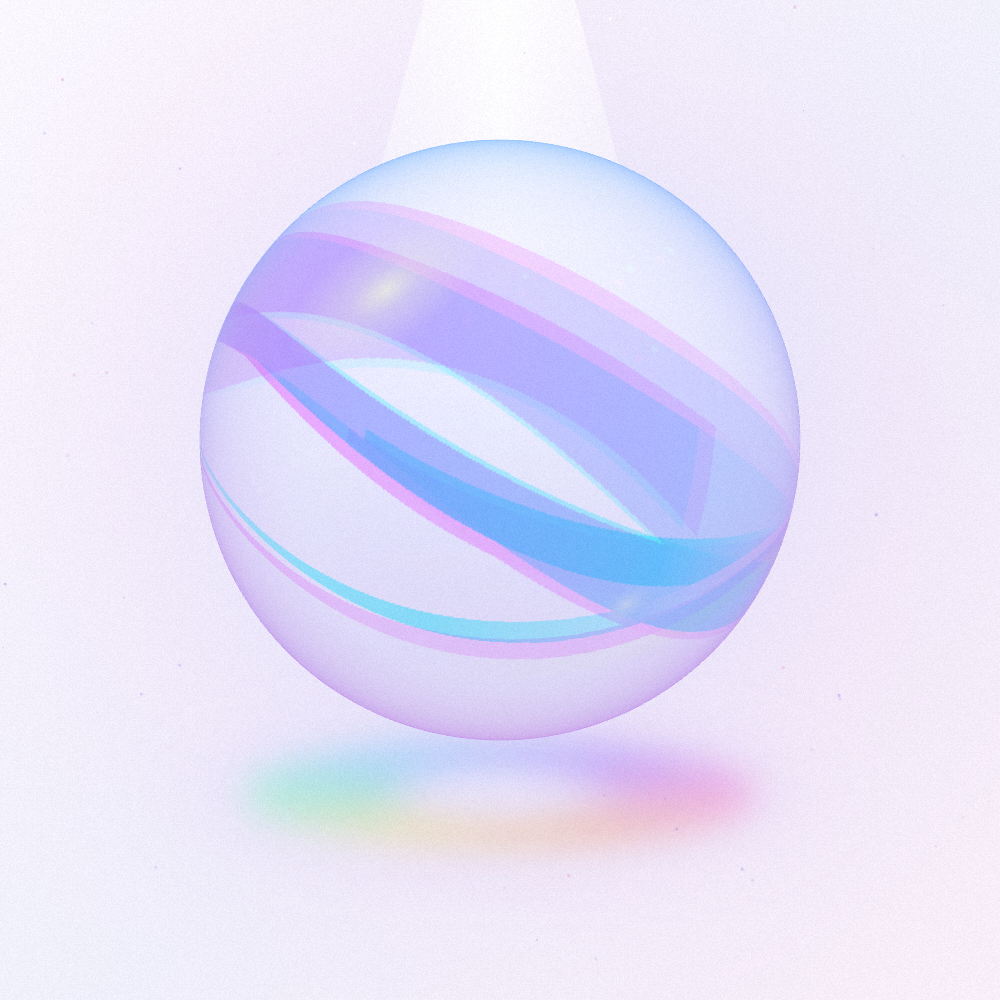
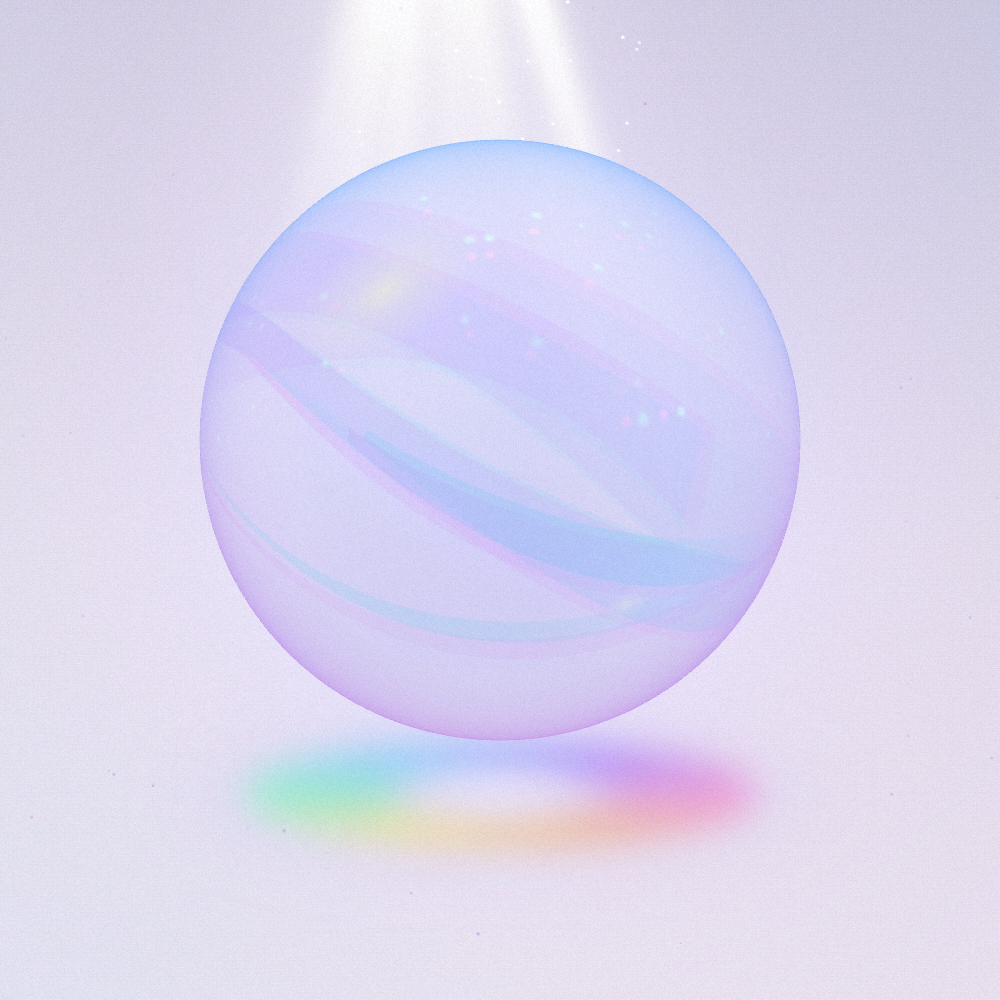
Orb: fainter interior ribbon, volumetric light rays, stronger rainbow pool
Claude-Session: https://claude.ai/code/session_01NNfMayHtDVknSJbkkHba8P

diff --git a/rebrand/orb3d.html b/rebrand/orb3d.html
@@ -15,12 +15,21 @@ function bg(w,h,X,Y,r){const c=document.createElement('canvas');c.width=w;c.heig
  let g=x.createLinearGradient(0,0,w,h);g.addColorStop(0,'#fbfaff');g.addColorStop(.55,'#eef0fb');g.addColorStop(1,'#f7eef8');x.fillStyle=g;x.fillRect(0,0,w,h);
  g=x.createRadialGradient(X,Y,0,X,Y,r*3);g.addColorStop(0,'rgba(190,195,255,.5)');g.addColorStop(.45,'rgba(240,210,245,.25)');g.addColorStop(1,'rgba(255,255,255,0)');x.fillStyle=g;x.fillRect(0,0,w,h);
  // beam
- {const b=document.createElement('canvas');b.width=w;b.height=h;const bx=b.getContext('2d');bx.translate(X,0);let bg2=bx.createLinearGradient(-r*.7,0,r*.7,0);bg2.addColorStop(0,'rgba(255,255,255,0)');bg2.addColorStop(.5,'rgba(255,255,255,.9)');bg2.addColorStop(1,'rgba(255,255,255,0)');bx.fillStyle=bg2;bx.beginPath();bx.moveTo(-r*.25,0);bx.lineTo(r*.25,0);bx.lineTo(r*.8,Y+r*.6);bx.lineTo(-r*.8,Y+r*.6);bx.fill();
- bx.setTransform(1,0,0,1,0,0);bx.globalCompositeOperation='destination-in';const vg=bx.createLinearGradient(0,0,0,Y+r*.6);vg.addColorStop(0,'#000');vg.addColorStop(.5,'rgba(0,0,0,.8)');vg.addColorStop(1,'rgba(0,0,0,0)');bx.fillStyle=vg;bx.fillRect(0,0,w,h);x.drawImage(b,0,0)}
+ {let vg2=x.createLinearGradient(0,0,0,h);vg2.addColorStop(0,'rgba(120,110,175,.22)');vg2.addColorStop(.55,'rgba(120,110,175,.06)');vg2.addColorStop(1,'rgba(120,110,175,0)');x.fillStyle=vg2;x.fillRect(0,0,w,h);
+  let vg3=x.createRadialGradient(X,Y,r,X,Y,Math.max(w,h)*.8);vg3.addColorStop(0,'rgba(0,0,0,0)');vg3.addColorStop(1,'rgba(110,100,170,.12)');x.fillStyle=vg3;x.fillRect(0,0,w,h);}
+ {const b=document.createElement('canvas');b.width=w;b.height=h;const bx=b.getContext('2d');
+  // soft volumetric light: wide haze + many faint god-rays from a source above frame
+  const sx=X-r*.25,sy=-r*1.2;bx.globalCompositeOperation='lighter';
+  bx.filter=`blur(${r*.25}px)`;let hg=bx.createRadialGradient(sx,sy,0,sx,sy,Y+r*1.5);hg.addColorStop(0,'rgba(255,253,250,.95)');hg.addColorStop(1,'rgba(255,255,255,0)');
+  bx.fillStyle=hg;bx.beginPath();bx.moveTo(sx,sy);bx.lineTo(X-r*1.3,Y+r);bx.lineTo(X+r*1.1,Y+r);bx.fill();
+  bx.filter=`blur(${r*.04}px)`;for(let i=0;i<46;i++){const tx=X+R(-r*1.1,r*1.0),ww=R(r*.02,r*.12);const g2=bx.createLinearGradient(sx,sy,tx,Y+r);g2.addColorStop(0,`rgba(255,253,250,${R(.12,.35)})`);g2.addColorStop(1,'rgba(255,255,255,0)');
+   bx.fillStyle=g2;bx.beginPath();bx.moveTo(sx-ww*.1,sy);bx.lineTo(sx+ww*.1,sy);bx.lineTo(tx+ww,Y+r);bx.lineTo(tx-ww,Y+r);bx.fill()}
+  bx.filter='none';bx.globalCompositeOperation='destination-in';const vg=bx.createLinearGradient(0,0,0,Y+r);vg.addColorStop(0,'rgba(0,0,0,.9)');vg.addColorStop(.6,'rgba(0,0,0,.45)');vg.addColorStop(1,'rgba(0,0,0,0)');bx.fillStyle=vg;bx.fillRect(0,0,w,h);
+  x.drawImage(b,0,0)}
  // rainbow caustic pool under orb (light through glass)
  const py=Y+r*1.18;x.save();x.translate(X,py);x.scale(1,.2);x.filter=`blur(${r*.06}px)`;
  const cg=x.createConicGradient(0,0,0);['#ff7ac8','#ffb36b','#fff07a','#7affc1','#6fd3ff','#9b7bff','#ff7ac8'].forEach((c,i,a)=>cg.addColorStop(i/(a.length-1),c));
- x.globalAlpha=.55;x.fillStyle=cg;x.beginPath();x.arc(0,0,r*.85,0,7);x.arc(0,0,r*.35,0,7,true);x.fill();
+ x.globalAlpha=.75;x.fillStyle=cg;x.beginPath();x.arc(0,0,r*.85,0,7);x.arc(0,0,r*.35,0,7,true);x.fill();
  x.globalAlpha=1;g=x.createRadialGradient(0,0,0,0,0,r*.45);g.addColorStop(0,'rgba(255,255,255,1)');g.addColorStop(1,'rgba(255,255,255,0)');x.fillStyle=g;x.beginPath();x.arc(0,0,r*.5,0,7);x.fill();
  x.filter=`blur(${r*.12}px)`;g=x.createRadialGradient(0,0,r*.6,0,0,r*1.2);g.addColorStop(0,'rgba(160,140,240,.18)');g.addColorStop(1,'rgba(160,140,240,0)');x.fillStyle=g;x.beginPath();x.arc(0,0,r*1.2,0,7);x.fill();x.restore();
  for(let i=0;i<160;i++){const a=R(0,6.28),d=r*R(1.2,3.5);x.fillStyle=`rgba(${Math.random()<.5?'150,140,230':'230,160,220'},${R(.15,.5)})`;x.beginPath();x.arc(X+Math.cos(a)*d,Y+Math.sin(a)*d,R(.5,1.8),0,7);x.fill()}
@@ -68,7 +77,7 @@ function mk(id,W,H,ox,oy,or,html){const el=document.createElement('div');el.clas
   fragmentShader:'varying vec3 n;varying vec3 v;void main(){float e=1.-abs(n.z);float f=pow(e,2.2)*.75+smoothstep(.9,1.,e)*.3;vec3 c=mix(vec3(.95,.55,.85),vec3(.45,.7,1.),n.y*.5+.5);c=mix(c,vec3(.55,.5,.95),smoothstep(.2,-.8,n.y)*.5);float sh=smoothstep(.3,-1.,n.y)*.18*(1.-e);gl_FragColor=vec4(mix(c,vec3(.6,.55,.9),sh),max(f,sh));}'});
  const rmM=new THREE.Mesh(new THREE.SphereGeometry(1.001,128,96),rim);rmM.renderOrder=21;grp.add(rmM);
  const rm=new THREE.MeshBasicMaterial({vertexColors:true,transparent:true,opacity:.5,side:THREE.DoubleSide,depthWrite:false,depthTest:false});
- [[0,.0,.36,.35],[.5,.03,.22,.5],[1.0,-.03,.13,.7],[1.6,.05,.06,.9],[2.4,-.06,.03,.8]].forEach(([p,t,wd,op])=>{const mm=rm.clone();mm.opacity=op;mm.depthTest=true;mm.depthWrite=true;mm.side=THREE.DoubleSide;const m=new THREE.Mesh(ribbonGeo(1,p,t,wd),mm);m.rotation.set(.15,0,-.14);grpA.add(m)});
+ [[0,.0,.36,.1],[.5,.03,.22,.14],[1.0,-.03,.13,.2],[1.6,.05,.06,.28],[2.4,-.06,.03,.25]].forEach(([p,t,wd,op])=>{const mm=rm.clone();mm.opacity=op;mm.depthTest=true;mm.depthWrite=true;mm.side=THREE.DoubleSide;const m=new THREE.Mesh(ribbonGeo(1,p,t,wd),mm);m.rotation.set(.15,0,-.14);grpA.add(m)});
  // soft specular highlight
  const hc=document.createElement('canvas');hc.width=hc.height=256;const hx=hc.getContext('2d');const hg=hx.createRadialGradient(128,128,0,128,128,128);hg.addColorStop(0,'rgba(255,255,255,1)');hg.addColorStop(.35,'rgba(255,255,255,.45)');hg.addColorStop(1,'rgba(255,255,255,0)');hx.fillStyle=hg;hx.fillRect(0,0,256,256);
  const hs=new THREE.Mesh(new THREE.PlaneGeometry(.75,.36),new THREE.MeshBasicMaterial({map:new THREE.CanvasTexture(hc),transparent:true,depthTest:false,depthWrite:false}));hs.position.set(-.38,.5,1.1);hs.rotation.z=.6;hs.renderOrder=30;grp.add(hs);

diff --git a/rebrand/shot3.js b/rebrand/shot3.js
@@ -1,4 +1,4 @@
 const {chromium}=require('playwright');(async()=>{const b=await chromium.launch({args:['--use-gl=angle','--use-angle=swiftshader','--enable-unsafe-swiftshader']});const p=await b.newPage({deviceScaleFactor:2,viewport:{width:1800,height:1000}});
 p.on('console',m=>console.log(m.text()));p.on('pageerror',e=>console.log('ERR',e.message));
-await p.goto('file://'+process.cwd()+'/orb3d.html');await p.waitForFunction('window.DONE',null,{timeout:120000});await p.waitForTimeout(1500);
+await p.goto('file://'+process.cwd()+'/orb3d.html',{waitUntil:'commit',timeout:0});await p.waitForFunction('window.DONE',null,{timeout:0});await p.waitForTimeout(1500);
 for(const id of ['banner_large','banner_mini','icon','icon_mono','social_header'])await p.locator('#'+id).screenshot({path:`orb_${id}.png`});await b.close()})();
